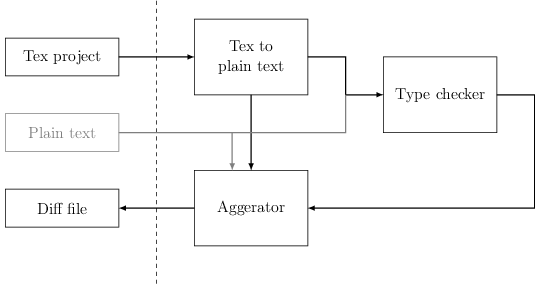
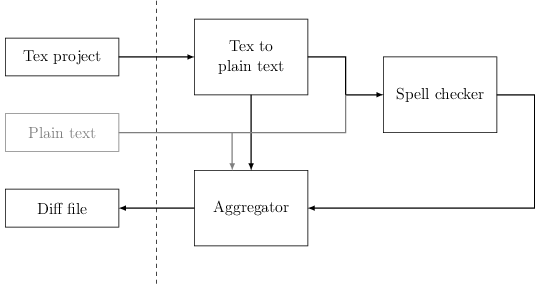
gna gna gna is not type but check

Changed region(s): [[0.7178, 0.3099, 0.9271, 0.3662], [0.3888, 0.7042, 0.5383, 0.7606]]

diff --git a/images/bloc.tex b/images/bloc.tex
@@ -9,7 +9,7 @@
   \draw (-4,3.5) rectangle (-1,4.5) node[midway] {Tex project};
   \draw (1,3) rectangle (4,5) node[midway,align=center] {Tex to\\ plain text};
   \draw [-latex,thick] (-1,4) -- (1,4);
-  \draw (6,2) rectangle (9,4) node[midway, align=center] {Type checker};
+  \draw (6,2) rectangle (9,4) node[midway, align=center] {Spell checker};
   \draw [-latex,thick] (4,4) -- (5,4) |- (6,3);
   \draw [-latex,thick](9,3) -| (10,0) -- (4,0);
   \draw (1,1) rectangle (4,-1) node[midway] {Aggregator};

diff --git a/doc.md b/doc.md
@@ -13,7 +13,7 @@ Note: path
 - a path to a file where the function will write the conversion of the the tex to plaintext (remove everything which will not be displayed in the pdf)
 - a path to a file where the function will write the match between the file and the line number of the .tex to the line number of the plain text
 
-## Type checker
+## spell checker
 ### input
 - a path to a plaintext file to correct
 - a path to a file where the function will list the error of the plaintext file. For each error we need to know 
